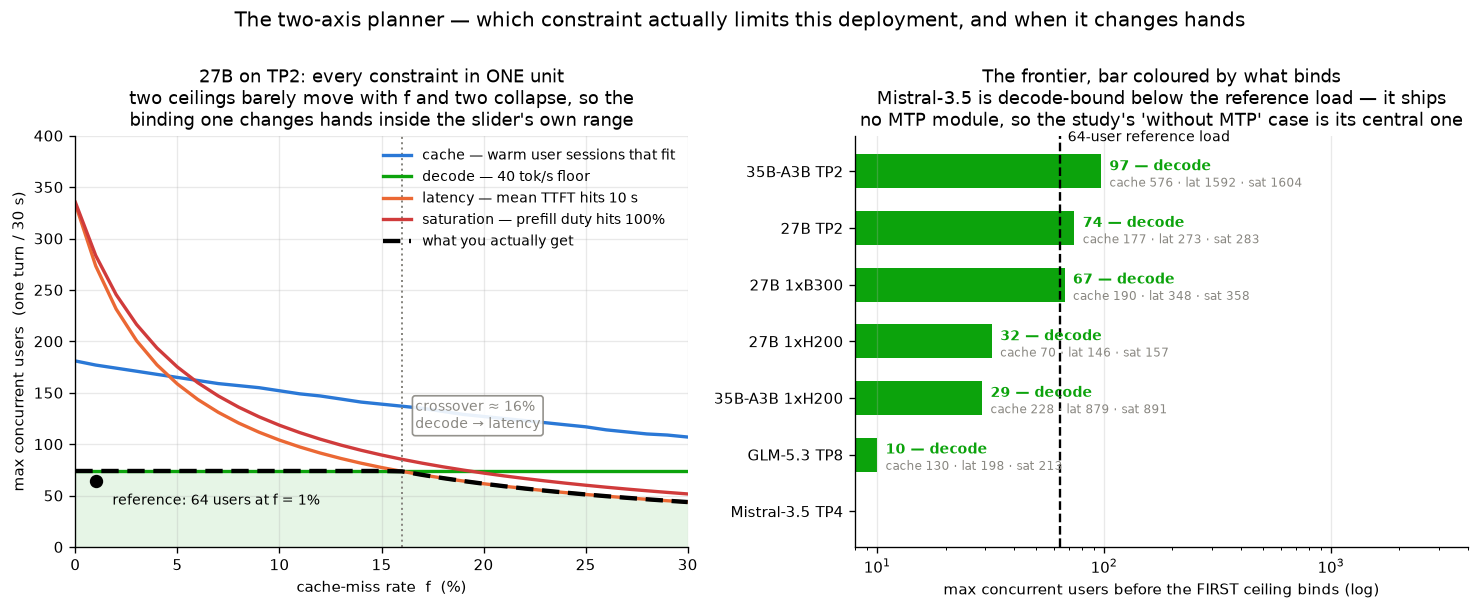
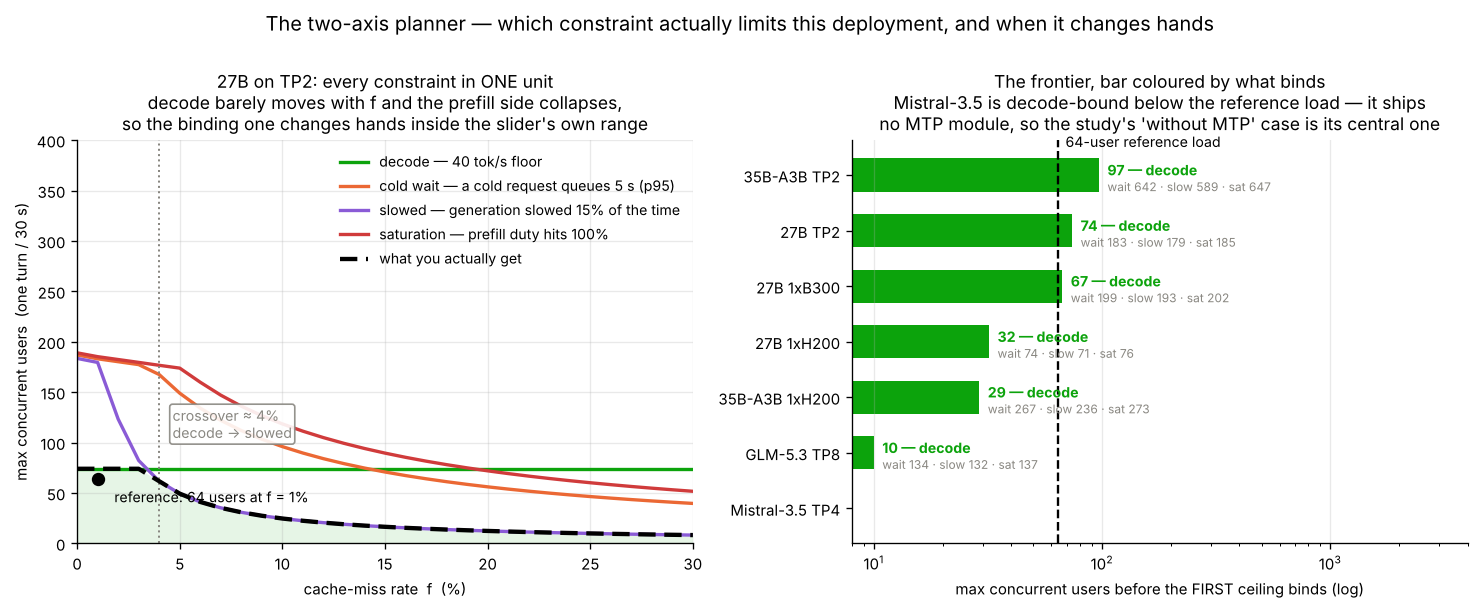
Binding map redrawn on the four ceilings #119 left: decode, cold wait, slowed, saturation
The cache is a hit rate now (#119), so its line is gone and the prefill-side
ceilings flatten at the warm pool's knee for small f. The left panel's title
no longer says the cache barely moves with f. On today's model every
configuration in the frontier binds on decode at the reference load;
Mistral-3.5 TP4 reaches none.

diff --git a/scripts/scenarios.py b/scripts/scenarios.py
@@ -516,9 +516,9 @@ def fig_binding_map():
     axL.set_ylabel(f"max concurrent users  (one turn / {THINK:.0f} s)")
     axL.legend(frameon=False, fontsize=8.5, loc="upper right")
     axL.set_title("27B on TP2: every constraint in ONE unit\n"
-                  "cache and decode barely move with f and the prefill side\n"
-                  "collapses, so the binding one changes hands inside the "
-                  "slider's own range", fontsize=10.5)
+                  "decode barely moves with f and the prefill side collapses,\n"
+                  "so the binding one changes hands inside the slider's own "
+                  "range", fontsize=10.5)
 
     # -- right: the frontier across configurations -------------------------
     rows = [("27B", 1, 1, "H200", "27B 1xH200"), ("27B", 1, 2, "H200", "27B TP2"),
